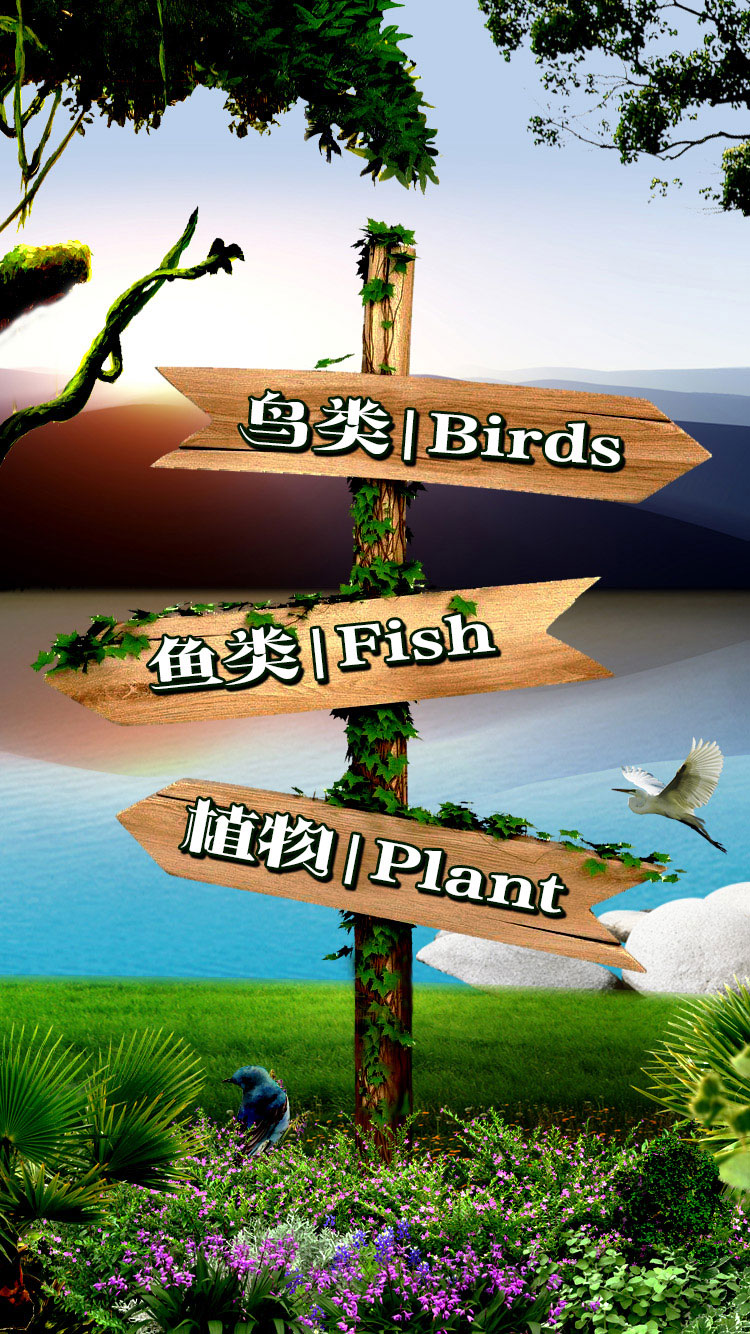
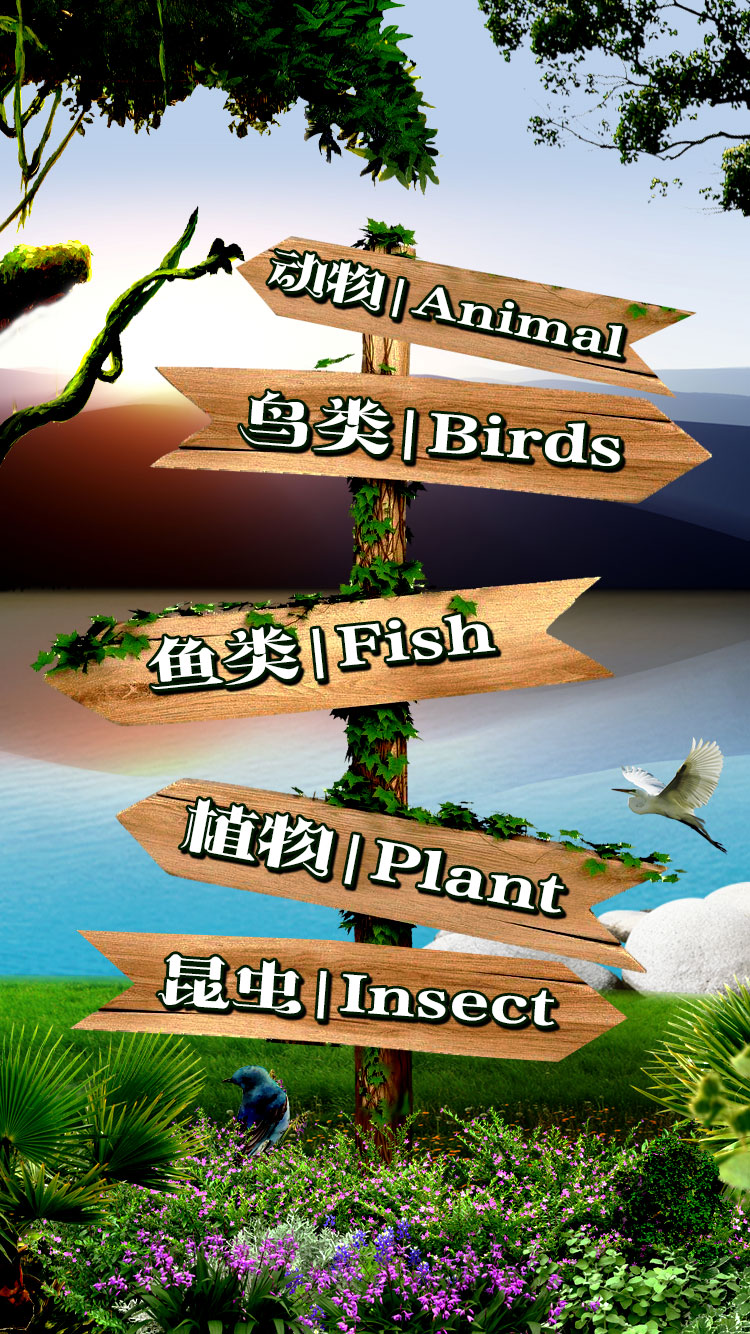
Add files via upload

diff --git a/viewer/cates.html b/viewer/cates.html
@@ -20,6 +20,7 @@
         .view {
             position: relative;
             width: 100vw;
+            /* max-width: 500px; */
             height: 100vh;
             background: url('./assets/cates_bg.jpg') no-repeat center;
             background-size: 100% 100%;
@@ -42,6 +43,12 @@
         }
         .view .type_2 {
           background-image: url('./assets/type_2.png');
+        }
+        .view .type_3 {
+          background-image: url('./assets/type_3.png');
+        }
+        .view .type_4 {
+          background-image: url('./assets/type_4.png');
         }
         .view .back {
           padding: .65rem .6rem 0;
@@ -93,16 +100,6 @@
         ;(function (global) {
           global.data = [
             [
-              {
-                name: '蜻蜓',
-                picture: './assets/res/0_0.jpg',
-                description: '蜻蜓，（学名：Dragonfly）无脊椎动物，昆虫纲，蜻蜓目，差翅亚目昆虫的通称。一般体型较惖大，翅长而窄，膜质，网状翅脉极为清晰。视觉极为灵敏，单眼3个；触角1对，细而较短；咀嚼式口器。蜻蜓是世界上眼睛最多的昆虫。'
-              },
-              {
-                name: '艾鼬',
-                picture: './assets/res/0_1.jpg',
-                description: '艾鼬（学名：  Mustela eversmanni）又称作艾虎、地狗，是鼬科鼬属的小型毛皮动物，体形象黄鼬，身长30-45cm，尾长11-20cm。吻部钝，颈稍粗，足短。前肢间毛短，背中部毛最长，略为拱曲形。尾毛稍蓬松。体侧淡棕色。'
-              },
               {
                 name: '白腹鹞',
                 picture: './assets/res/0_2.jpg',
@@ -332,6 +329,20 @@
                 picture: './assets/res/2_14.jpg',
                 description: '韮古同"韭" 山韮即野韭菜山韮（A. tuberosum Rottl. ex Spreng.）属百合科多年生草本植物，具特殊强烈气味，根茎横卧，鳞茎狭圆锥形，簇生；鳞式外皮黄褐色，网状纤维质；叶基生，条形，扁平；伞形花序，顶生。叶、花葶和花均作蔬菜食用；种子等可入药。'
               }
+            ],
+            [
+            {
+               name: '蜻蜓',
+               picture: './assets/res/0_0.jpg',
+               description: '蜻蜓，（学名：Dragonfly）无脊椎动物，昆虫纲，蜻蜓目，差翅亚目昆虫的通称。一般体型较惖大，翅长而窄，膜质，网状翅脉极为清晰。视觉极为灵敏，单眼3个；触角1对，细而较短；咀嚼式口器。蜻蜓是世界上眼睛最多的昆虫。'
+            }
+            ],
+            [
+            {
+               name: '艾鼬',
+               picture: './assets/res/0_1.jpg',
+               description: '艾鼬（学名：  Mustela eversmanni）又称作艾虎、地狗，是鼬科鼬属的小型毛皮动物，体形象黄鼬，身长30-45cm，尾长11-20cm。吻部钝，颈稍粗，足短。前肢间毛短，背中部毛最长，略为拱曲形。尾毛稍蓬松。体侧淡棕色。'
+            }
             ]
 
           ];
@@ -352,7 +363,7 @@
           global.setTitle = function(type) {
             var elm = global.element('.type');
             elm.className = 'type type_' + type;
-            document.title = ['鸟类', '鱼类', '植物'][type]
+            document.title = ['鸟类', '鱼类', '植物', '昆虫', '动物'][type]
           };
 
           global.renderTemplate = function(data) {

diff --git a/viewer/loader.html b/viewer/loader.html
@@ -33,9 +33,9 @@
         	top: 5vw;
         	z-index: 2525252;
 
-        	animation: rotate 2s infinite linear;
+        	
 
-        	animation-play-state: running;
+        	/* animation-play-state: running; */
         }
 
         @-webkit-keyframes rotate {
@@ -59,9 +59,14 @@
         	}
         }
 
-        #switch.paused {
-        	animation: none;
+        #switch.rotate {
+            /*
+        	-webkit-animation-play-state: paused;
         	animation-play-state: paused;
+
+            */
+
+            animation: rotate 2s infinite linear;
         }
     </style>
   </head>
@@ -69,22 +74,33 @@
     <div class="view">
     	<iframe src="./index.html" scrolling="no"></iframe>
     	<audio id="sound" src="./assets/music.mp3" preload loop autoplay></audio>
-    	<div id="switch"></div>
+    	<div id="switch" class="rotate"></div>
     </div>
     <script type="text/javascript">
     	var sound = document.querySelector('#sound');
     	sound.play();
     	var isPlaying = true;
+        var mixture = null;
 
     	document.addEventListener('WeixinJSBridgeReady', function () {
     		sound.play();
     		isPlaying = true;
     	}, false);
 
-    	var $switch = document.querySelector('#switch');
+        var $switch = document.querySelector('#switch');
+
+        function pause() {
+            mixture = getComputedStyle($switch).transform;
+            $switch.style.transform = mixture;
+        }
+
     	$switch.addEventListener('click', function () {
-    		isPlaying ? sound.pause() : sound.play();
-    		$switch.className = isPlaying ? 'paused' : '';
+            if(isPlaying) {
+                sound.pause()
+                pause()
+            }
+            else sound.play()
+    		$switch.className = isPlaying ? '' : 'rotate';
     		isPlaying = !isPlaying;
     	}, false)
     </script>

diff --git a/viewer/index.html b/viewer/index.html
@@ -55,6 +55,16 @@
           top: 61%;
           transform: rotate(10deg);
         }
+        .view .i_4 {
+          left: 1rem;
+          top: 70%;
+          transform: rotate(4deg);
+        }
+        .view .i_5 {
+          right: .5rem;
+          top: 19%;
+          transform: rotate(10deg) scale(.85, .8);
+        }
     </style>
     <script type="text/javascript">
         ;(function (global) {
@@ -75,6 +85,8 @@
         <a href="cates.html?type=0" class="item i_1"></a>
         <a href="cates.html?type=1" class="item i_2"></a>
         <a href="cates.html?type=2" class="item i_3"></a>
+        <a href="cates.html?type=3" class="item i_4"></a>
+        <a href="cates.html?type=4" class="item i_5"></a>
     </div>
   </body>
 </html>
